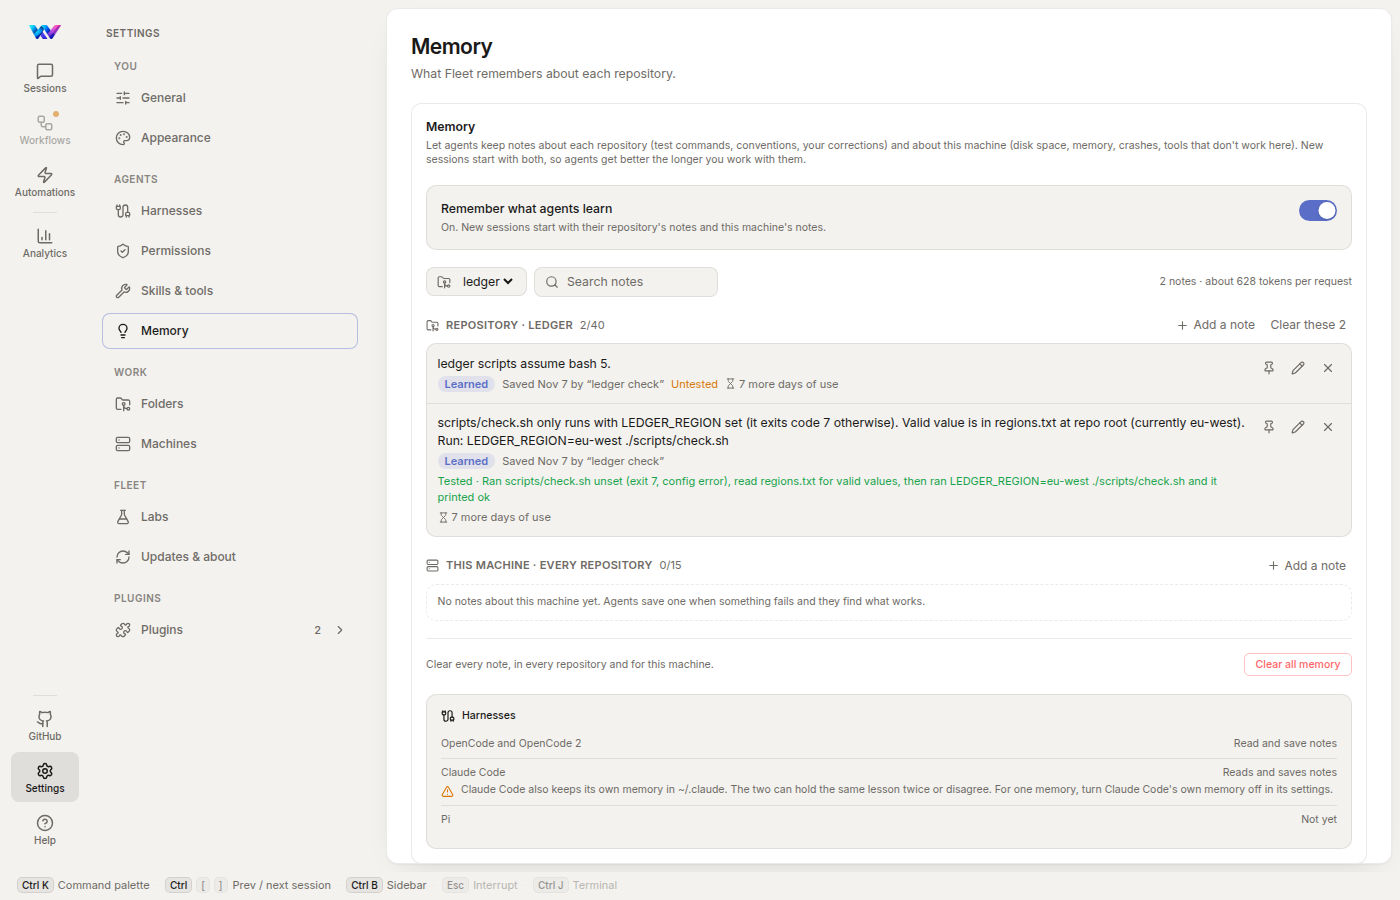
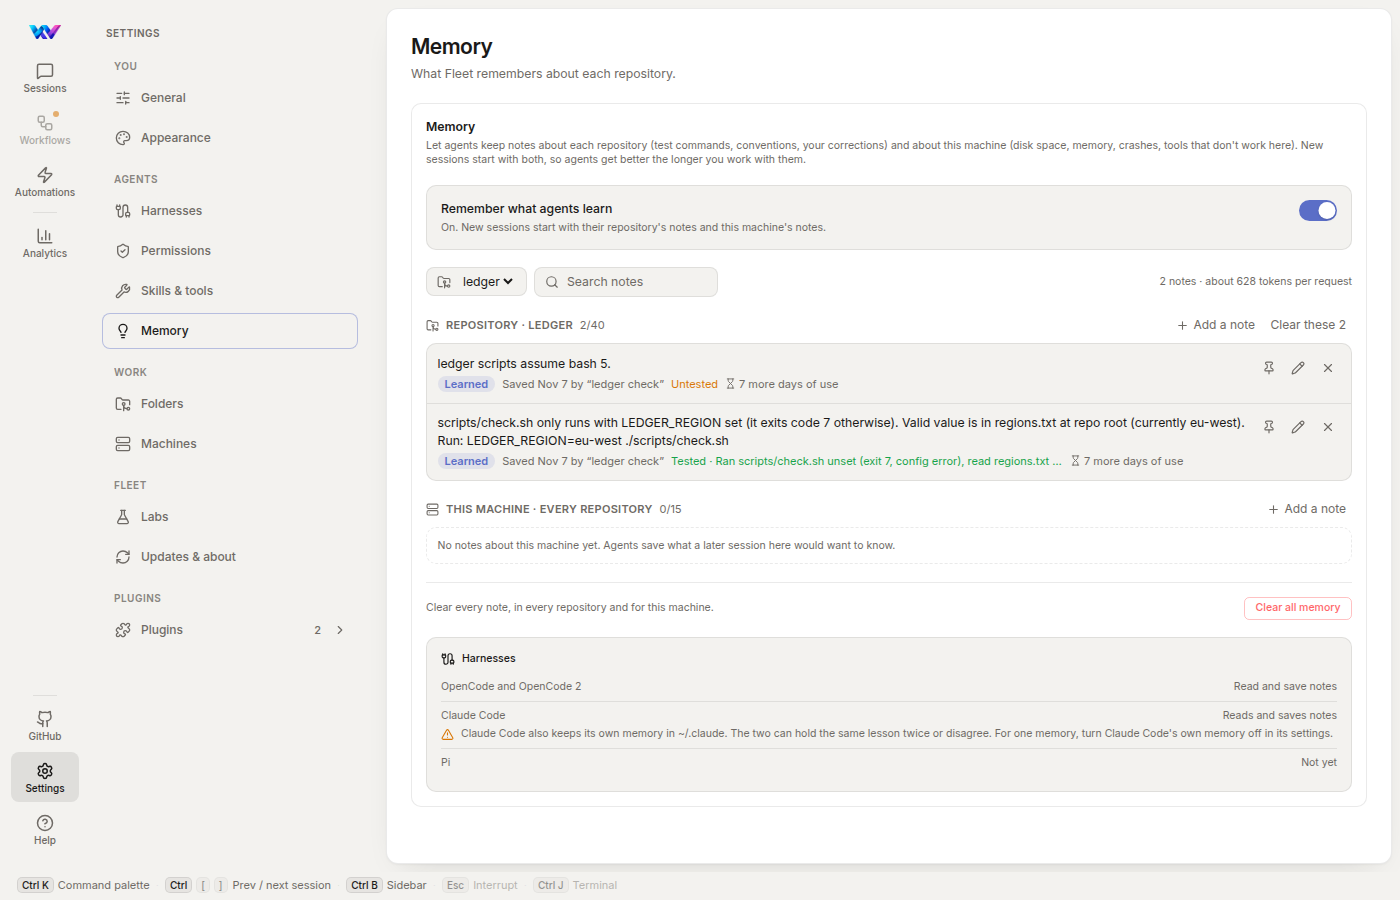
fix(memory): keep the Tested line to one row; machine empty text matches what memory is for

diff --git a/client/src/components/settings/MemorySection.vue b/client/src/components/settings/MemorySection.vue
@@ -476,6 +476,7 @@ onMounted(load);
                   <span
                     v-if="note.kind === 'learned' && note.how"
                     class="memory-tested"
+                    :title="note.how"
                     :data-testid="`memory-how-${note.id}`"
                   >Tested · {{ note.how }}</span>
                   <span
@@ -543,7 +544,7 @@ onMounted(load);
             class="mt-2 rounded-card border border-dashed border-border p-3 text-xs text-muted"
           >
             {{ search ? "No notes match." : group.list === 'machine'
-              ? "No notes about this machine yet. Agents save one when something fails and they find what works."
+              ? "No notes about this machine yet. Agents save what a later session here would want to know."
               : `No notes for ${repositoryName} yet. Say “remember …” in a session, or add one here.` }}
           </p>
         </template>
@@ -805,6 +806,12 @@ onMounted(load);
 
 .memory-tested {
   color: var(--running);
+  /* One line: a long "how" is cut with an ellipsis (the full text is the tooltip). */
+  min-width: 0;
+  max-width: 28rem;
+  overflow: hidden;
+  text-overflow: ellipsis;
+  white-space: nowrap;
 }
 
 .memory-untested {
